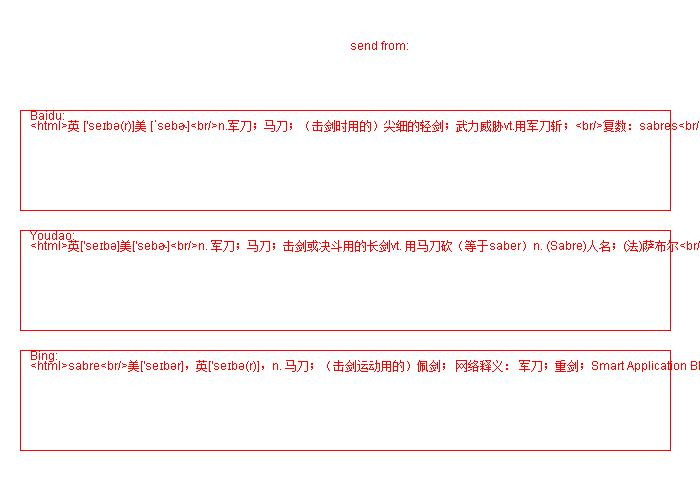
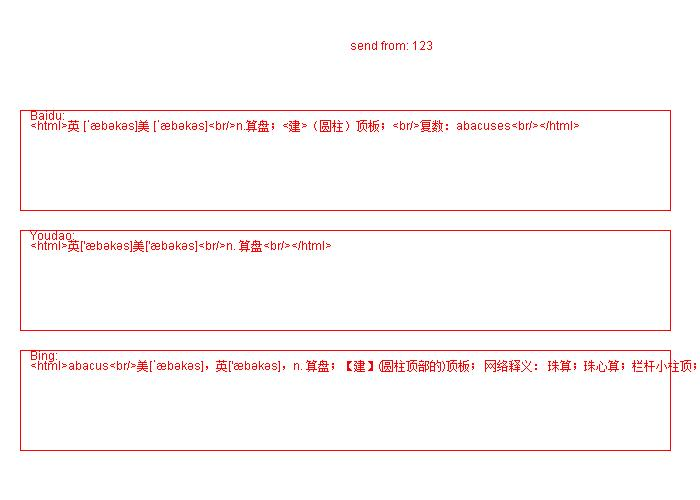
Can realize the function sends word CARDS

diff --git a/DictionaryOnline/src/data/WordDataTxtImp.java b/DictionaryOnline/src/data/WordDataTxtImp.java
@@ -171,10 +171,21 @@ public class WordDataTxtImp extends WordDataService{
 	};
 	
 	public void shareCard(){
+		Client client=new Client();
 		wordCardInfo.setChooseFlag(0);
 		PictureUtil pictureUtil=new PictureUtil();
-		client=new Client();
+//		wordCardInfo.setWordname(word);
 		try {
+			wordCardInfo.setPictureName((wordCardInfo.getSendUser()+"_"+wordCardInfo.getReceiveUser()+"_"+wordCardInfo.getWordname()));
+			System.out.println((wordCardInfo.getSendUser()+"_"+wordCardInfo.getReceiveUser()+"_"+wordCardInfo.getWordname()));
+		} catch (Exception e) {
+			// TODO: handle exception
+		}
+//		client=new Client();
+		try {
+			if(wordCardInfo.getImage()==null){
+				System.out.println("BUG!");
+			}
 			client.getOutputToServer().writeObject(wordCardInfo);
 		} catch (IOException e1)
 		{

diff --git a/DictionaryOnline/src/mainui/QueryButton.java b/DictionaryOnline/src/mainui/QueryButton.java
@@ -52,7 +52,7 @@ public class QueryButton extends JButton implements ActionListener{
 		} 
 		else {
 			String word = (String) UIFactory.getWordInputFieldInstance().getWord();
-			
+			DataFactory.getDataService().wordCardInfo.setWordname(word);
 			int error_flag=0;
 			for(int i=0;i<word.length();i++){
 				char c=word.charAt(i);

diff --git a/DictionaryOnline/src/mainui/ChatButton.java b/DictionaryOnline/src/mainui/ChatButton.java
@@ -1,0 +1,5 @@
+package mainui;
+
+public class ChatButton {
+
+}
